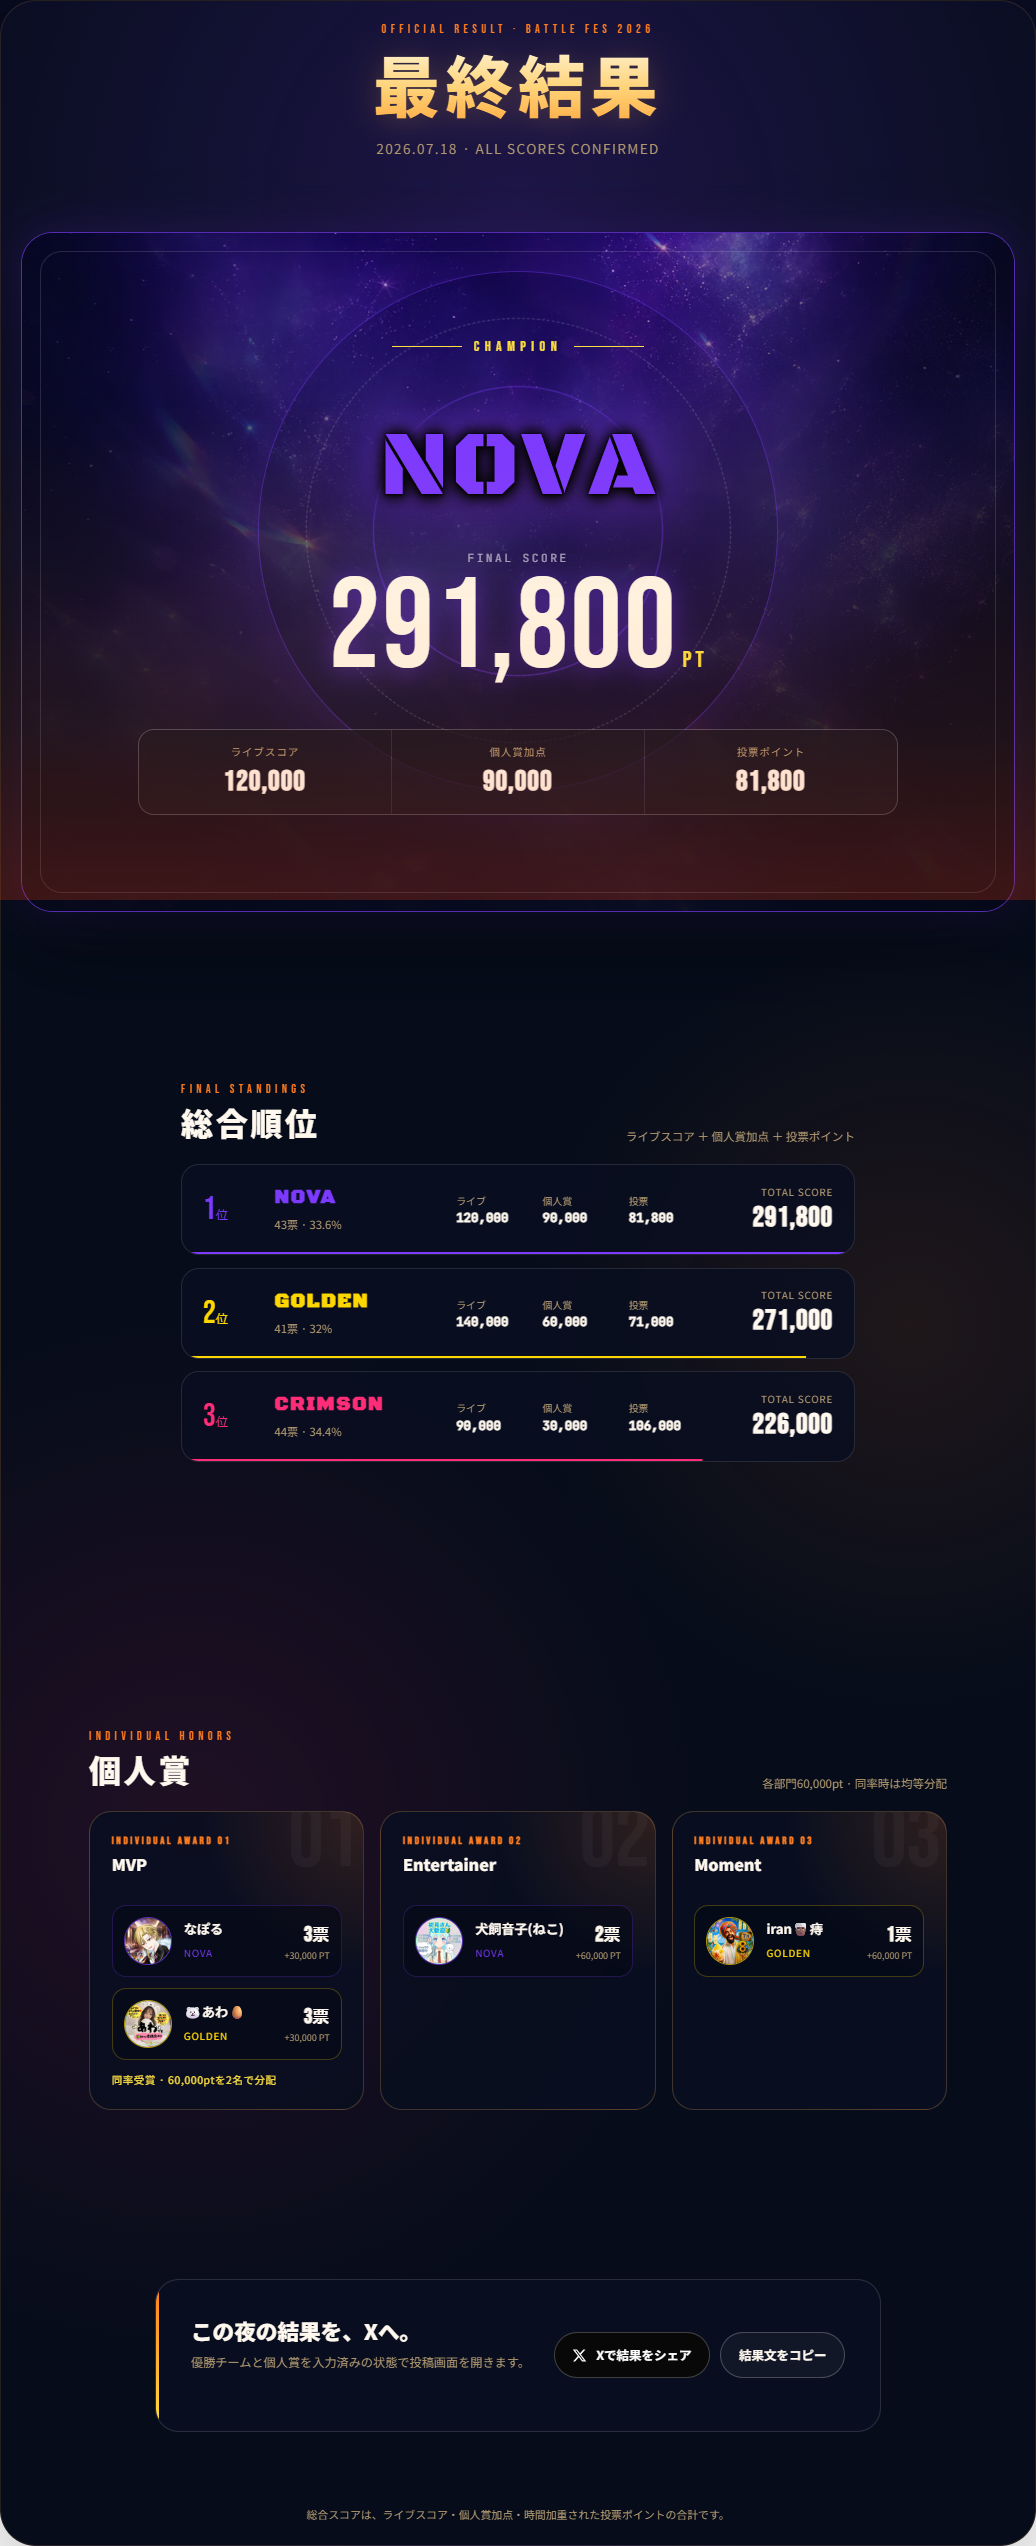
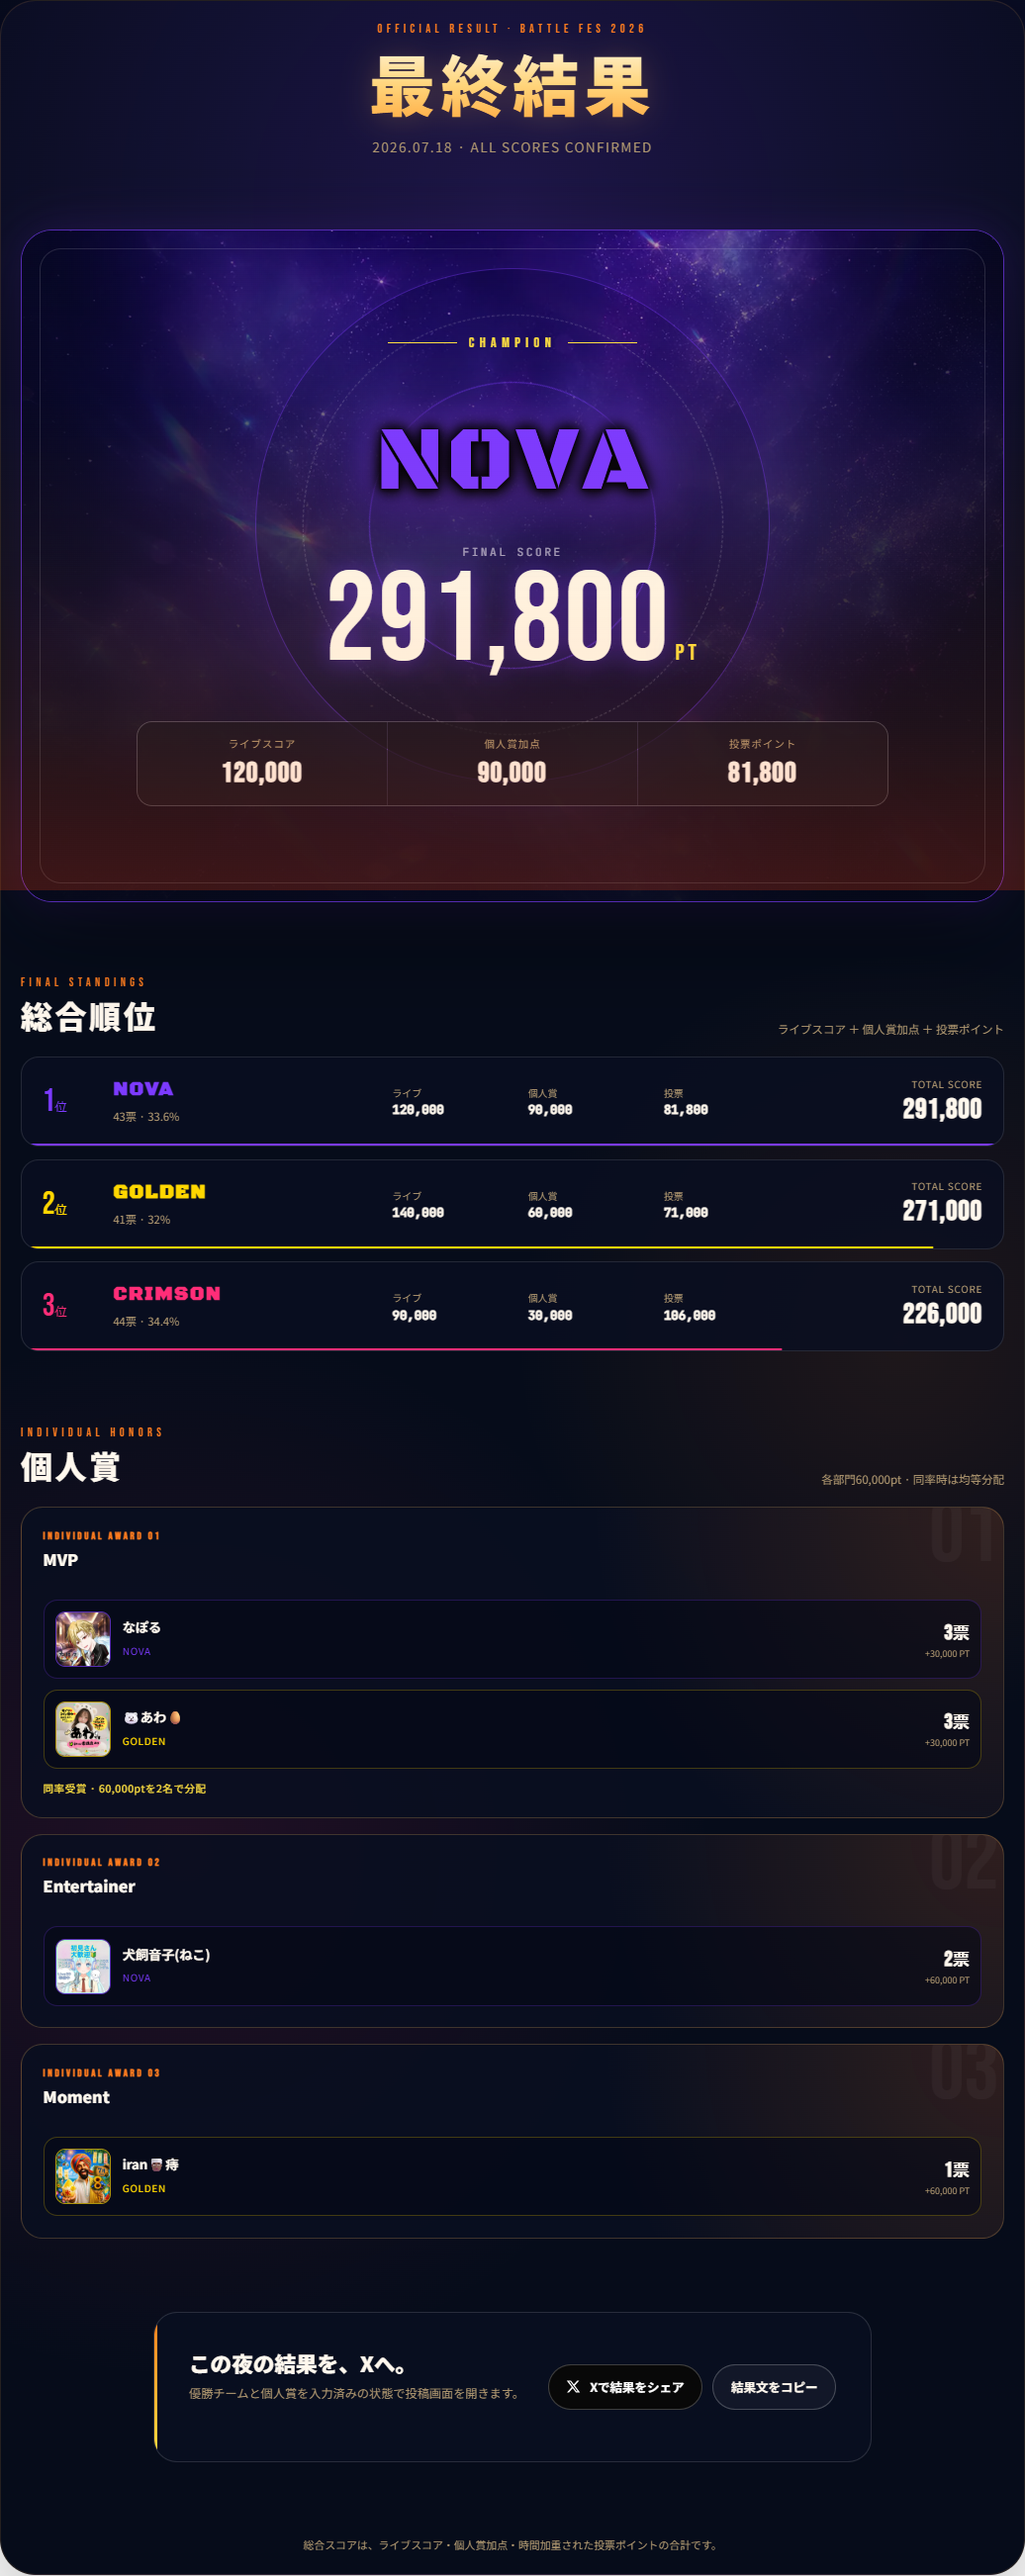
Trigger result counter on scroll

diff --git a/battlefes.html b/battlefes.html
@@ -2349,6 +2349,12 @@
     transition: opacity 0.8s var(--reveal-ease), transform 0.8s var(--reveal-ease);
   }
   .final-result-stage.is-visible { opacity: 1; transform: translateY(0); }
+  .final-result-stage > section:not(.result-share) {
+    width: 100%;
+    max-width: none;
+    margin: 0;
+    padding: 0;
+  }
   .final-result-heading { text-align: center; }
   .final-result-heading h3 {
     margin: 0.35rem 0 0;
@@ -2588,7 +2594,7 @@
 
   .result-award-grid {
     display: grid;
-    grid-template-columns: repeat(3, minmax(0, 1fr));
+    grid-template-columns: 1fr;
     gap: 1rem;
   }
   .result-award-card {
@@ -2631,7 +2637,7 @@
   .result-award-recipient {
     --result-team-color: var(--gold);
     display: grid;
-    grid-template-columns: 48px minmax(0, 1fr) auto;
+    grid-template-columns: 56px minmax(0, 1fr) auto;
     align-items: center;
     gap: 0.75rem;
     padding: 0.7rem;
@@ -2640,11 +2646,11 @@
     background: rgba(3, 7, 20, 0.58);
   }
   .result-award-avatar {
-    width: 48px;
+    width: 56px;
     aspect-ratio: 1;
     overflow: hidden;
     border: 1px solid color-mix(in srgb, var(--result-team-color) 65%, transparent);
-    border-radius: 50%;
+    border-radius: 10px;
     background: rgba(255,255,255,0.06);
   }
   .result-award-avatar img { width: 100%; height: 100%; object-fit: cover; }
@@ -3518,6 +3524,9 @@ let voted = false;
 let isSubmitting = false;
 let modalSelections = {}; // { mvp: memberId, entertainer: memberId, moment: memberId }
 let finalResultsCache = null;
+let renderedFinalResultsSignature = '';
+let resultCounterObserver = null;
+let resultCountersHaveAnimated = false;
 let resultRefreshPromise = null;
 let lastResultPublishedState = null;
 let testClosedResultsActive = false;
@@ -3864,13 +3873,37 @@ function animateResultCounters(root) {
   });
 }
 
-function celebrateFinalResult(teamColor) {
-  if (isReducedMotion()) return;
-  try {
-    if (sessionStorage.getItem('battlefes_result_celebrated') === '1') return;
-    sessionStorage.setItem('battlefes_result_celebrated', '1');
-  } catch (error) {}
-  requestAnimationFrame(() => confettiBurst(teamColor || '#ffe040'));
+function setResultCountersToFinal(root) {
+  root.querySelectorAll('[data-result-count]').forEach(counter => {
+    const target = Math.max(0, Math.round(Number(counter.dataset.resultCount) || 0));
+    counter.textContent = formatResultScore(target);
+  });
+}
+
+function observeResultCounters(root) {
+  const counters = Array.from(root.querySelectorAll('[data-result-count]'));
+  if (!counters.length) return;
+  if (resultCounterObserver) {
+    resultCounterObserver.disconnect();
+    resultCounterObserver = null;
+  }
+  if (resultCountersHaveAnimated || isReducedMotion() || !('IntersectionObserver' in window)) {
+    setResultCountersToFinal(root);
+    resultCountersHaveAnimated = true;
+    return;
+  }
+
+  counters.forEach(counter => { counter.textContent = '0'; });
+  const trigger = root.querySelector('.result-champion-score') || counters[0];
+  resultCounterObserver = new IntersectionObserver(entries => {
+    const visible = entries.some(entry => entry.target === trigger && entry.isIntersecting);
+    if (!visible) return;
+    resultCounterObserver.disconnect();
+    resultCounterObserver = null;
+    resultCountersHaveAnimated = true;
+    animateResultCounters(root);
+  }, { threshold: 0.12 });
+  resultCounterObserver.observe(trigger);
 }
 
 function renderFinalResults(finalResults = finalResultsCache) {
@@ -3878,12 +3911,30 @@ function renderFinalResults(finalResults = finalResultsCache) {
   const stage = document.getElementById('finalResultStage');
   if (!holding || !stage) return;
   if (!finalResults || !finalResults.winner) {
+    renderedFinalResultsSignature = '';
+    resultCountersHaveAnimated = false;
+    if (resultCounterObserver) {
+      resultCounterObserver.disconnect();
+      resultCounterObserver = null;
+    }
     setShown(holding, true);
     setShown(stage, false);
     return;
   }
 
   finalResultsCache = finalResults;
+  const renderSignature = JSON.stringify({
+    finalResults,
+    teams: teams.map(team => ({ id: team.id, name: team.name })),
+    categories: getIndividualCategories().map(category => ({ id: category.id, label: category.label })),
+  });
+  if (renderSignature === renderedFinalResultsSignature && stage.childElementCount > 0) {
+    setShown(holding, false);
+    setShown(stage, true);
+    stage.classList.add('is-visible');
+    return;
+  }
+  renderedFinalResultsSignature = renderSignature;
   const winner = finalResults.winner;
   const winnerTeam = resultTeam(winner.teamId);
   const standings = Array.isArray(finalResults.standings) ? finalResults.standings : [];
@@ -3979,8 +4030,7 @@ function renderFinalResults(finalResults = finalResultsCache) {
   requestAnimationFrame(() => {
     requestAnimationFrame(() => {
       stage.classList.add('is-visible');
-      animateResultCounters(stage);
-      celebrateFinalResult(winnerTeam.color);
+      observeResultCounters(stage);
     });
   });
 }
@@ -4307,8 +4357,6 @@ async function submitBulkVote() {
       showThankYouOverlay();
     }
 
-    const team = teams.find(t => t.id === selected);
-    if (team) confettiBurst(team.color);
   } catch (error) {
     console.error('[Vote bulk submit]', error);
     document.getElementById('modalHint').textContent =

diff --git a/public/index.html b/public/index.html
@@ -2351,6 +2351,12 @@
     text-rendering: optimizeLegibility;
   }
   .final-result-stage.is-visible { opacity: 1; transform: translateY(0); }
+  .final-result-stage > section:not(.result-share) {
+    width: 100%;
+    max-width: none;
+    margin: 0;
+    padding: 0;
+  }
   .final-result-heading { text-align: center; }
   .final-result-heading h3 {
     margin: 0.35rem 0 0;
@@ -2596,7 +2602,7 @@
 
   .result-award-grid {
     display: grid;
-    grid-template-columns: repeat(3, minmax(0, 1fr));
+    grid-template-columns: 1fr;
     gap: 1rem;
   }
   .result-award-card {
@@ -2640,7 +2646,7 @@
   .result-award-recipient {
     --result-team-color: var(--gold);
     display: grid;
-    grid-template-columns: 48px minmax(0, 1fr) auto;
+    grid-template-columns: 56px minmax(0, 1fr) auto;
     align-items: center;
     gap: 0.75rem;
     padding: 0.7rem;
@@ -2649,11 +2655,11 @@
     background: rgba(3, 7, 20, 0.58);
   }
   .result-award-avatar {
-    width: 48px;
+    width: 56px;
     aspect-ratio: 1;
     overflow: hidden;
     border: 1px solid color-mix(in srgb, var(--result-team-color) 65%, transparent);
-    border-radius: 50%;
+    border-radius: 10px;
     background: rgba(255,255,255,0.06);
   }
   .result-award-avatar img { width: 100%; height: 100%; object-fit: cover; }
@@ -3529,6 +3535,8 @@ let isSubmitting = false;
 let modalSelections = {}; // { mvp: memberId, entertainer: memberId, moment: memberId }
 let finalResultsCache = null;
 let renderedFinalResultsSignature = '';
+let resultCounterObserver = null;
+let resultCountersHaveAnimated = false;
 let resultRefreshPromise = null;
 let lastResultPublishedState = null;
 let testClosedResultsActive = false;
@@ -3875,12 +3883,50 @@ function animateResultCounters(root) {
   });
 }
 
+function setResultCountersToFinal(root) {
+  root.querySelectorAll('[data-result-count]').forEach(counter => {
+    const target = Math.max(0, Math.round(Number(counter.dataset.resultCount) || 0));
+    counter.textContent = formatResultScore(target);
+  });
+}
+
+function observeResultCounters(root) {
+  const counters = Array.from(root.querySelectorAll('[data-result-count]'));
+  if (!counters.length) return;
+  if (resultCounterObserver) {
+    resultCounterObserver.disconnect();
+    resultCounterObserver = null;
+  }
+  if (resultCountersHaveAnimated || isReducedMotion() || !('IntersectionObserver' in window)) {
+    setResultCountersToFinal(root);
+    resultCountersHaveAnimated = true;
+    return;
+  }
+
+  counters.forEach(counter => { counter.textContent = '0'; });
+  const trigger = root.querySelector('.result-champion-score') || counters[0];
+  resultCounterObserver = new IntersectionObserver(entries => {
+    const visible = entries.some(entry => entry.target === trigger && entry.isIntersecting);
+    if (!visible) return;
+    resultCounterObserver.disconnect();
+    resultCounterObserver = null;
+    resultCountersHaveAnimated = true;
+    animateResultCounters(root);
+  }, { threshold: 0.12 });
+  resultCounterObserver.observe(trigger);
+}
+
 function renderFinalResults(finalResults = finalResultsCache) {
   const holding = document.getElementById('resultHolding');
   const stage = document.getElementById('finalResultStage');
   if (!holding || !stage) return;
   if (!finalResults || !finalResults.winner) {
     renderedFinalResultsSignature = '';
+    resultCountersHaveAnimated = false;
+    if (resultCounterObserver) {
+      resultCounterObserver.disconnect();
+      resultCounterObserver = null;
+    }
     setShown(holding, true);
     setShown(stage, false);
     return;
@@ -3994,7 +4040,7 @@ function renderFinalResults(finalResults = finalResultsCache) {
   requestAnimationFrame(() => {
     requestAnimationFrame(() => {
       stage.classList.add('is-visible');
-      animateResultCounters(stage);
+      observeResultCounters(stage);
     });
   });
 }